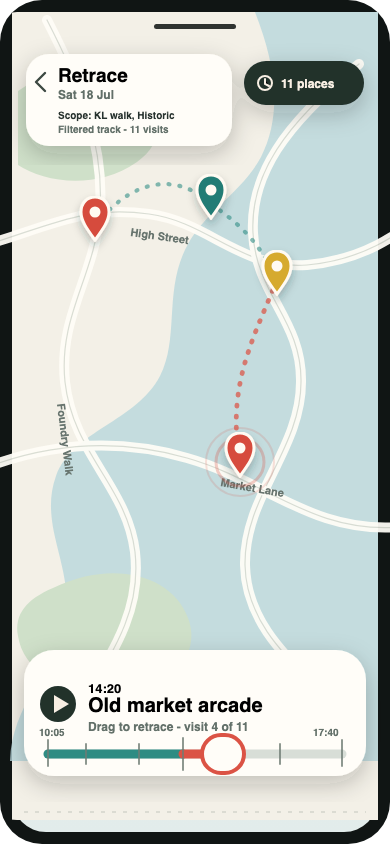
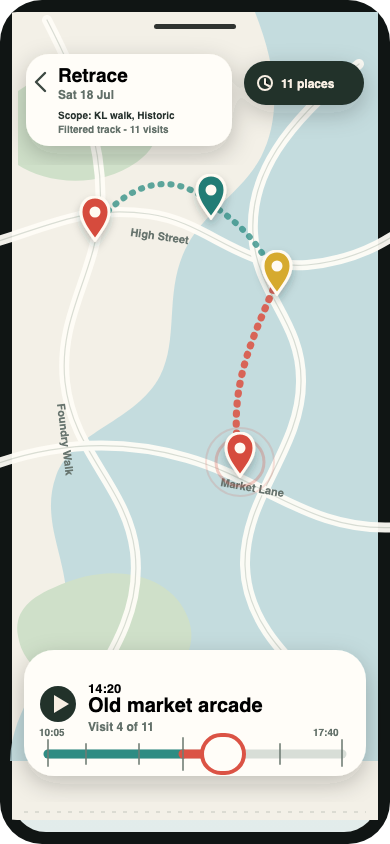
Apply ratified retrace mockup amendments

diff --git a/docs/design/retrace/README.md b/docs/design/retrace/README.md
@@ -7,13 +7,14 @@ Rob's accepted direction:
 
 - Retrace opens as a map view, not a hidden list state.
 - Visited places remain individual pins.
-- Scrubbing time makes dashed connection arcs glide across the map.
+- Scrubbing time makes dotted connection arcs glide across the map.
 - Pins appear with a pulse as the scrubber reaches each visit.
 - The slider must read as a real time slider, with Google Photos-style temporal
   affordance rather than a generic progress bar.
 - The slider must scale to years of visits: fast scrubbing moves coarsely across
   years, then slowing zooms the timeline for fine positioning around nearby
-  visits.
+  visits. Fast scrub advances through many visits per step and slow scrub advances
+  through fewer; neither mode skips the arc drawing or pin arrival animation.
 - Retrace can be filtered by list or lists and by place type. A filtered view is
   a shorter continuous track over the filtered visit set.
 - The entry point must be obvious from the map.
@@ -40,15 +41,17 @@ Validation notes:
   counts.
 - Retrace does not show unreached or hidden places as faded tappable pins, and
   it does not expose hidden-place counts.
-- The dashed connection line is scaffolding: it stays behind the places, avoids
-  the default navigation accent, and never dominates coloured pins.
+- The dotted connection line is scaffolding: it stays behind the places, avoids
+  the default navigation accent, stays bold/clear enough to read as one nice arc,
+  and never dominates coloured pins.
 - Same-day reordering is represented as a continuous track.
 - Autoplay advances one visit at a time with a uniform cadence and equal dwell
   per item. It is not derived from `visited_at` gaps or real-world temporal
   spacing.
-- Manual scrubbing is velocity-sensitive: coarse movement jumps across a
-  year-scale event axis; slowing down expands the local visit cluster for precise
-  selection without changing the event order.
+- Manual scrubbing is velocity-sensitive: coarse movement advances through many
+  visits on a year-scale event axis; slowing down expands the local visit cluster
+  for precise selection without changing the event order. In both modes, reached
+  paths still draw and pins still animate; fast scrub must not teleport state.
 - Timeline zoom changes events per pixel, never the spacing rule: adjacent
   visits remain equally spaced whether they are minutes or months apart.
 - Under filters, the timeline is re-indexed to only the filtered visit set:
